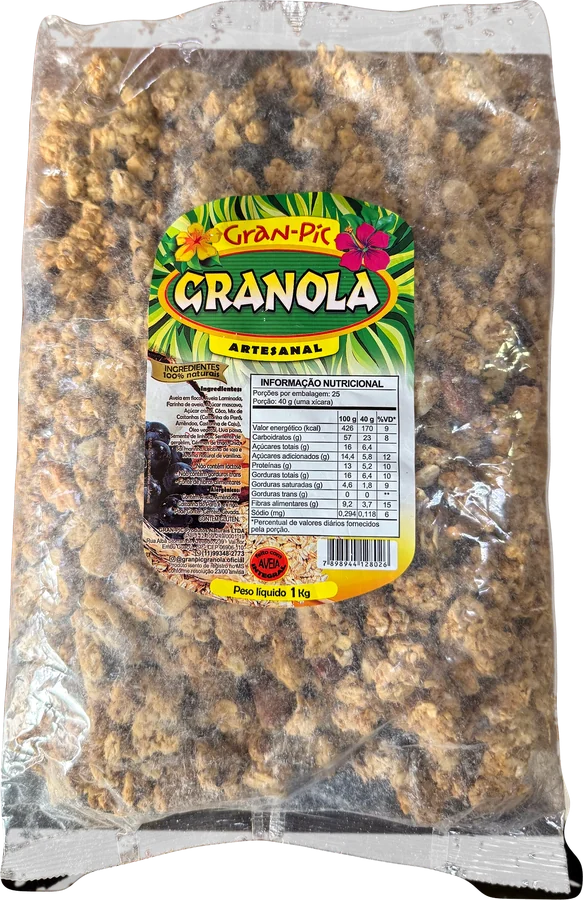
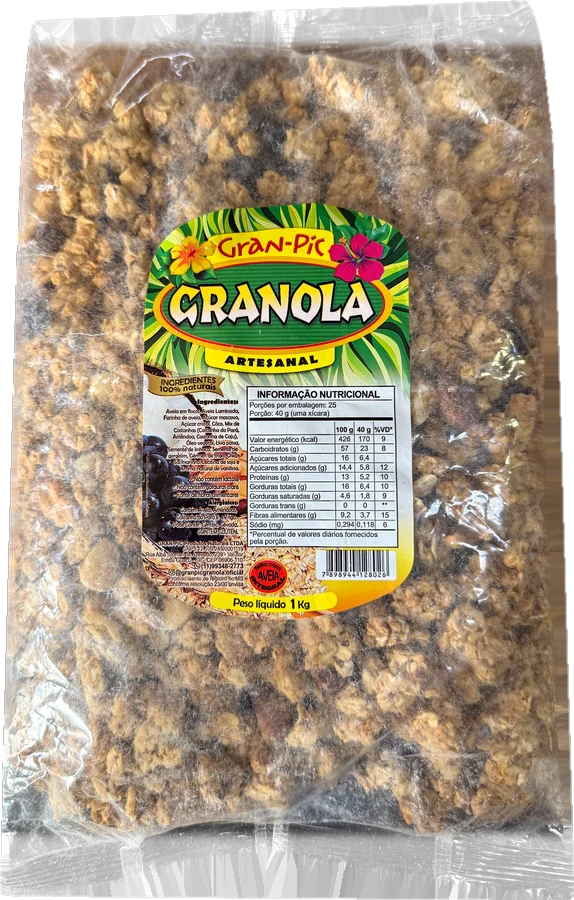
D'Lu: pacotes revisados um a um (contorno manual, sem madeira, cantos inteiros)
- Contorno desenhado sobre a foto original (polígono pelos vincos e
  soldas reais) em vez do contorno suavizado que comia cantos: sal
  Al-Andalus, tapioca Lopes 500 g, gengibre, realce de alho, caiena,
  creme de cebola, noz-moscada, cravo, cebola em pó, ácido cítrico,
  caldo de galinha Jomil e Penina, páprica picante, zathar e pimenta
  preta Tempera Bem; pimenta branca sem o calombo embaixo
- Granola Gran-Pic 500 g e 1 kg voltam para o recorte anterior (mais
  limpo nas soldas)
- ?v bump em todas

Claude-Session: https://claude.ai/code/session_01TP2isRzFhC1k2kUqYfETaa

diff --git a/dados/catalogo.js b/dados/catalogo.js
@@ -103,7 +103,7 @@ window.CATALOGO = {
       { nome: 'Vinagre de fruta', marca: 'Almaromi', cat: 'Diversos', cor: '#c9a24a', uso: 'Vinagre de fruta para saladas, marinadas e conservas: maçã comum, maçã orgânico, limão ou limão siciliano.', tamanhos: ['maçã 400 ml', 'maçã orgânico 400 ml', 'limão', 'limão siciliano'], rotulo: 'Tipo', fotos: { dlu: 'imagens/dlu/emb-vinagre-almaromi-maca.webp' }, fotosTam: { dlu: { 'maçã 400 ml': 'imagens/dlu/emb-vinagre-almaromi-maca.webp', 'maçã orgânico 400 ml': 'imagens/dlu/emb-vinagre-almaromi-maca-organico.webp', 'limão': 'imagens/dlu/emb-vinagre-almaromi-limao.webp', 'limão siciliano': 'imagens/dlu/emb-vinagre-almaromi-limao-siciliano.webp' } }, emb: true, so: 'dlu' },
       { nome: 'Pimenta biquinho', marca: 'Itaguaçu', ard: 0, cat: 'Pimentas em conserva', cor: '#e2682a', uso: 'Biquinho em conserva, doce e sem ardência. Vai bem em saladas, petiscos e carnes.', tamanhos: ['100 g'], liquido: ['200 g'], fotos: { dlu: 'imagens/dlu/emb-biquinho-itaguacu.webp' }, fotosTam: { dlu: { '100 g': 'imagens/dlu/emb-biquinho-itaguacu.webp' } }, emb: true, so: 'dlu' },
       { nome: 'Alho triturado', marca: 'Interessa', fotosTam: { dlu: { '200 g': 'imagens/dlu/emb-alho-triturado-interessa-200.webp' } }, cat: 'Alho', cor: '#e6dcc2', uso: 'Alho triturado pronto para refogar, sem precisar descascar.', tamanhos: ['200 g', '1 kg', '3 kg'], emb: true, so: 'dlu' },
-      { nome: 'Caldo de galinha', marca: 'Jomil', fotos: { dlu: 'imagens/dlu/emb-caldo-galinha-jomil.webp?v=2' }, fotosTam: { dlu: { 'pacote 1,01 kg': 'imagens/dlu/emb-caldo-galinha-jomil.webp?v=2' } }, cat: 'Misturas da casa', cor: '#e0b23a', uso: 'Caldo de galinha em pó, em pacote, para arroz, sopas, risotos e molhos.', tamanhos: ['pacote 1,01 kg'], emb: true, so: 'dlu' },
+      { nome: 'Caldo de galinha', marca: 'Jomil', fotos: { dlu: 'imagens/dlu/emb-caldo-galinha-jomil.webp?v=3' }, fotosTam: { dlu: { 'pacote 1,01 kg': 'imagens/dlu/emb-caldo-galinha-jomil.webp?v=3' } }, cat: 'Misturas da casa', cor: '#e0b23a', uso: 'Caldo de galinha em pó, em pacote, para arroz, sopas, risotos e molhos.', tamanhos: ['pacote 1,01 kg'], emb: true, so: 'dlu' },
       { nome: 'Colorau Paraíba em pacote', cat: 'Especiarias', cor: '#c23a1c', uso: 'O colorau Paraíba já embalado, em pacote de 1 kg ou de 5 kg.', tamanhos: ['pacote 1 kg', 'pacote 5 kg'], emb: true, so: 'dlu' },
       { nome: 'Tempero conquista sogra', fotosT: { dlu: 'imagens/dlu/conquista-sogra.webp' }, cat: 'Misturas da casa', cor: '#a4442a', uso: 'Mistura pronta da casa. Pergunte a composição no WhatsApp.', so: 'dlu' },
       { nome: 'Chimichurri com limão', fotosT: { dlu: 'imagens/dlu/chimichurri-limao.webp' }, cat: 'Misturas da casa', cor: '#7a8a30', uso: 'O chimichurri com toque de limão, para frango, peixe e churrasco.', so: 'dlu' },
@@ -142,21 +142,21 @@ window.CATALOGO = {
       { nome: 'Mel de flores silvestres', marca: 'São Miguel', grupo: 'Mel de flores', tipo: 'Silvestre', fotos: { dlu: 'imagens/dlu/emb-mel-silvestre-sao-miguel-500.webp' }, fotosTam: { dlu: { '210 g': 'imagens/dlu/emb-mel-silvestre-sao-miguel-210.webp', '500 g': 'imagens/dlu/emb-mel-silvestre-sao-miguel-500.webp', '1 kg': 'imagens/dlu/emb-mel-silvestre-sao-miguel-1kg.webp' } }, cat: 'Mel, dendê e manteiga', cor: '#c98a1c', uso: 'Mel puro de abelha do Apiário São Miguel. Mel de flores silvestres, de sabor marcante.', tamanhos: ['210 g', '500 g', '1 kg'], emb: true, so: 'dlu' },
       { nome: 'Mel de flores de eucalipto', marca: 'São Miguel', grupo: 'Mel de flores', tipo: 'Eucalipto', fotos: { dlu: 'imagens/dlu/emb-mel-eucalipto-sao-miguel-500.webp' }, fotosTam: { dlu: { '210 g': 'imagens/dlu/emb-mel-eucalipto-sao-miguel-210.webp', '500 g': 'imagens/dlu/emb-mel-eucalipto-sao-miguel-500.webp', '1 kg': 'imagens/dlu/emb-mel-eucalipto-sao-miguel-1kg.webp' } }, cat: 'Mel, dendê e manteiga', cor: '#a8641a', uso: 'Mel puro de abelha do Apiário São Miguel. Mel de flores de eucalipto, mais encorpado.', tamanhos: ['210 g', '500 g', '1 kg'], emb: true, so: 'dlu' },
       { nome: 'Mel de flores de laranjeira', marca: 'São Miguel', grupo: 'Mel de flores', tipo: 'Laranjeira', fotos: { dlu: 'imagens/dlu/emb-mel-laranjeira-sao-miguel-500.webp' }, fotosTam: { dlu: { '210 g': 'imagens/dlu/emb-mel-laranjeira-sao-miguel-210.webp', '500 g': 'imagens/dlu/emb-mel-laranjeira-sao-miguel-500.webp', '1 kg': 'imagens/dlu/emb-mel-laranjeira-sao-miguel-1kg.webp' } }, cat: 'Mel, dendê e manteiga', cor: '#d9a02a', uso: 'Mel puro de abelha do Apiário São Miguel. Mel de flores de laranjeira, suave e perfumado.', tamanhos: ['210 g', '500 g', '1 kg'], emb: true, so: 'dlu' },
-      { nome: 'Cebola em pó', marca: 'Tempera Bem', fotos: { dlu: 'imagens/dlu/emb-cebola-po-tempera-bem-500.webp?v=2' }, fotosTam: { dlu: { 'pacote 500 g': 'imagens/dlu/emb-cebola-po-tempera-bem-500.webp?v=2' } }, cat: 'Desidratados', cor: '#dcc89c', uso: 'Cebola moída para molhos, sopas, carnes e massas.', tamanhos: ['pacote 500 g'], emb: true, so: 'dlu' },
-      { nome: 'Realce sabor alho', marca: 'Tempera Bem', fotos: { dlu: 'imagens/dlu/emb-realce-alho-tempera-bem-500.webp?v=2' }, fotosTam: { dlu: { 'pacote 500 g': 'imagens/dlu/emb-realce-alho-tempera-bem-500.webp?v=2' } }, cat: 'Alho', cor: '#e2d4b0', uso: 'Realçador com sabor de alho em pacote, para arroz, feijão, carnes e legumes.', tamanhos: ['pacote 500 g'], emb: true, so: 'dlu' },
+      { nome: 'Cebola em pó', marca: 'Tempera Bem', fotos: { dlu: 'imagens/dlu/emb-cebola-po-tempera-bem-500.webp?v=3' }, fotosTam: { dlu: { 'pacote 500 g': 'imagens/dlu/emb-cebola-po-tempera-bem-500.webp?v=3' } }, cat: 'Desidratados', cor: '#dcc89c', uso: 'Cebola moída para molhos, sopas, carnes e massas.', tamanhos: ['pacote 500 g'], emb: true, so: 'dlu' },
+      { nome: 'Realce sabor alho', marca: 'Tempera Bem', fotos: { dlu: 'imagens/dlu/emb-realce-alho-tempera-bem-500.webp?v=3' }, fotosTam: { dlu: { 'pacote 500 g': 'imagens/dlu/emb-realce-alho-tempera-bem-500.webp?v=3' } }, cat: 'Alho', cor: '#e2d4b0', uso: 'Realçador com sabor de alho em pacote, para arroz, feijão, carnes e legumes.', tamanhos: ['pacote 500 g'], emb: true, so: 'dlu' },
       { nome: 'Lemon pepper', marca: 'Tempera Bem', fotos: { dlu: 'imagens/dlu/emb-lemon-pepper-tempera-bem-500.webp?v=3' }, fotosTam: { dlu: { 'pacote 500 g': 'imagens/dlu/emb-lemon-pepper-tempera-bem-500.webp?v=3' } }, cat: 'Pimentas e pápricas', cor: '#c9b83a', uso: 'Lemon pepper em pacote, pimenta com limão para peixe, frango e saladas.', tamanhos: ['pacote 500 g'], emb: true, so: 'dlu' },
-      { nome: 'Ácido cítrico', marca: 'Tempera Bem', fotos: { dlu: 'imagens/dlu/emb-acido-citrico-tempera-bem-500.webp?v=2' }, fotosTam: { dlu: { 'pacote 500 g': 'imagens/dlu/emb-acido-citrico-tempera-bem-500.webp?v=2' } }, cat: 'Diversos', cor: '#eeece6', uso: 'Ácido cítrico anidro em pó, para conservas, geleias, doces e para acertar a acidez de receitas.', tamanhos: ['pacote 500 g'], emb: true, so: 'dlu' },
+      { nome: 'Ácido cítrico', marca: 'Tempera Bem', fotos: { dlu: 'imagens/dlu/emb-acido-citrico-tempera-bem-500.webp?v=3' }, fotosTam: { dlu: { 'pacote 500 g': 'imagens/dlu/emb-acido-citrico-tempera-bem-500.webp?v=3' } }, cat: 'Diversos', cor: '#eeece6', uso: 'Ácido cítrico anidro em pó, para conservas, geleias, doces e para acertar a acidez de receitas.', tamanhos: ['pacote 500 g'], emb: true, so: 'dlu' },
       { nome: 'Alho moído', marca: 'Tempera Bem', fotos: { dlu: 'imagens/dlu/emb-alho-moido-tempera-bem-500.webp' }, fotosTam: { dlu: { 'pacote 500 g': 'imagens/dlu/emb-alho-moido-tempera-bem-500.webp' } }, cat: 'Alho', cor: '#e8dcc0', uso: 'Alho em pó para carnes, molhos, pães e temperos secos.', tamanhos: ['pacote 500 g'], emb: true, so: 'dlu' },
       { nome: 'Colorífico extra forte', marca: 'Tempera Bem', fotos: { dlu: 'imagens/dlu/emb-colorifico-extra-forte-tempera-bem.webp' }, fotosTam: { dlu: { 'pacote 1,01 kg': 'imagens/dlu/emb-colorifico-extra-forte-tempera-bem.webp' } }, cat: 'Especiarias', cor: '#c4381c', uso: 'Colorífico extra forte em pacote, para dar cor a arroz, carnes, feijão e molhos.', tamanhos: ['pacote 1,01 kg'], emb: true, so: 'dlu' },
       { nome: 'Pimenta síria condimentada', marca: 'Tempera Bem', fotos: { dlu: 'imagens/dlu/emb-pimenta-siria-tempera-bem-500.webp' }, fotosTam: { dlu: { 'pacote 500 g': 'imagens/dlu/emb-pimenta-siria-tempera-bem-500.webp' } }, cat: 'Pimentas e pápricas', cor: '#6a4a30', uso: 'Pimenta síria condimentada em pacote, para quibe, esfiha, kafta e carnes.', tamanhos: ['pacote 500 g'], emb: true, so: 'dlu' },
-      { nome: 'Zathar', marca: 'Tempera Bem', fotos: { dlu: 'imagens/dlu/emb-zathar-tempera-bem-500.webp' }, fotosTam: { dlu: { 'pacote 500 g': 'imagens/dlu/emb-zathar-tempera-bem-500.webp' } }, cat: 'Especiarias', cor: '#7a8a4a', uso: 'Zathar em pacote, mistura árabe para pão sírio, coalhada, saladas e carnes.', tamanhos: ['pacote 500 g'], emb: true, so: 'dlu' },
-      { nome: 'Pimenta preta moída', marca: 'Tempera Bem', fotos: { dlu: 'imagens/dlu/emb-pimenta-preta-tempera-bem-500.webp' }, fotosTam: { dlu: { 'pacote 500 g': 'imagens/dlu/emb-pimenta-preta-tempera-bem-500.webp' } }, cat: 'Pimentas e pápricas', cor: '#2a2420', uso: 'Pimenta-do-reino preta moída em pacote, para carnes, molhos e o dia a dia.', tamanhos: ['pacote 500 g'], emb: true, so: 'dlu' },
+      { nome: 'Zathar', marca: 'Tempera Bem', fotos: { dlu: 'imagens/dlu/emb-zathar-tempera-bem-500.webp?v=2' }, fotosTam: { dlu: { 'pacote 500 g': 'imagens/dlu/emb-zathar-tempera-bem-500.webp?v=2' } }, cat: 'Especiarias', cor: '#7a8a4a', uso: 'Zathar em pacote, mistura árabe para pão sírio, coalhada, saladas e carnes.', tamanhos: ['pacote 500 g'], emb: true, so: 'dlu' },
+      { nome: 'Pimenta preta moída', marca: 'Tempera Bem', fotos: { dlu: 'imagens/dlu/emb-pimenta-preta-tempera-bem-500.webp?v=2' }, fotosTam: { dlu: { 'pacote 500 g': 'imagens/dlu/emb-pimenta-preta-tempera-bem-500.webp?v=2' } }, cat: 'Pimentas e pápricas', cor: '#2a2420', uso: 'Pimenta-do-reino preta moída em pacote, para carnes, molhos e o dia a dia.', tamanhos: ['pacote 500 g'], emb: true, so: 'dlu' },
       { nome: 'Realce sabor alho', fotosT: { dlu: 'imagens/dlu/realce-sabor-alho.webp' }, cat: 'Alho', cor: '#e2d4b0', uso: 'Realçador com sabor de alho para arroz, feijão, carnes e legumes.', so: 'dlu' },
       { nome: 'Realce de alho', fotosT: { dlu: 'imagens/dlu/realce-de-alho.webp' }, cat: 'Alho', cor: '#d8c8a0', uso: 'Realce de alho para refogados, carnes e o tempero do dia a dia.', so: 'dlu' },
       { nome: 'Realce para carne, legumes e aves', fotosT: { dlu: 'imagens/dlu/realce-carne-legumes-aves.webp?v=2' }, cat: 'Misturas da casa', cor: '#d8b21f', uso: 'Realçador de sabor para carnes, legumes e aves.', so: 'dlu' },
       { nome: 'Creme de cebola', fotosT: { dlu: 'imagens/dlu/creme-de-cebola.webp' }, cat: 'Misturas da casa', cor: '#d6bc8a', uso: 'Creme de cebola em pó para sopas, patês, molhos e chips.', so: 'dlu' },
       { nome: 'Granola crocante', grupo: 'Granola', tipo: 'Crocante', cat: 'Grãos e sementes', cor: '#b8864a', uso: 'Granola crocante para iogurte, frutas, açaí e o café da manhã.', tamanhos: ['500 g', '1 kg'], emb: true, so: 'dlu' },
-      { nome: 'Granola artesanal', marca: 'Gran-Pic', grupo: 'Granola', tipo: 'Artesanal Gran-Pic', fotos: { dlu: 'imagens/dlu/emb-granola-granpic-500.webp?v=2' }, fotosTam: { dlu: { '500 g': 'imagens/dlu/emb-granola-granpic-500.webp?v=2', '1 kg': 'imagens/dlu/emb-granola-granpic-1kg.webp?v=2' } }, cat: 'Grãos e sementes', cor: '#a8783a', uso: 'Granola artesanal Gran-Pic em pacote, com aveia, castanhas e uva-passa. Para iogurte, frutas, açaí e o café da manhã.', tamanhos: ['500 g', '1 kg'], emb: true, so: 'dlu' },
+      { nome: 'Granola artesanal', marca: 'Gran-Pic', grupo: 'Granola', tipo: 'Artesanal Gran-Pic', fotos: { dlu: 'imagens/dlu/emb-granola-granpic-500.webp?v=3' }, fotosTam: { dlu: { '500 g': 'imagens/dlu/emb-granola-granpic-500.webp?v=3', '1 kg': 'imagens/dlu/emb-granola-granpic-1kg.webp?v=3' } }, cat: 'Grãos e sementes', cor: '#a8783a', uso: 'Granola artesanal Gran-Pic em pacote, com aveia, castanhas e uva-passa. Para iogurte, frutas, açaí e o café da manhã.', tamanhos: ['500 g', '1 kg'], emb: true, so: 'dlu' },
       { nome: 'Granola artesanal', grupo: 'Granola', tipo: 'Artesanal', fotosT: { dlu: 'imagens/dlu/granola-artesanal.webp' }, cat: 'Grãos e sementes', cor: '#a8783a', uso: 'Granola artesanal a granel, para iogurte, frutas, açaí e o café da manhã.', so: 'dlu' },
       { nome: 'Aveia em flocos', grupo: 'Aveia em flocos', tipo: 'Flocos', fotosT: { dlu: 'imagens/dlu/aveia-em-flocos.webp' }, cat: 'Grãos e sementes', cor: '#d8c49a', uso: 'Aveia em flocos para mingau, vitaminas, bolos, pães e panquecas.', so: 'dlu' },
       { nome: 'Aveia em flocos laminada', grupo: 'Aveia em flocos', tipo: 'Laminada', fotosT: { dlu: 'imagens/dlu/aveia-em-flocos-laminada.webp' }, cat: 'Grãos e sementes', cor: '#cdb98c', uso: 'Aveia laminada, em flocos maiores e mais firmes. Para granola, overnight oats, mingau encorpado e receitas.', so: 'dlu' },
@@ -174,7 +174,7 @@ window.CATALOGO = {
       { nome: 'Pimentão verde desidratado', cat: 'Desidratados', cor: '#4f7a2a', uso: 'Pimentão verde seco para molhos, arroz, sopas e recheios.', so: 'dlu' },
       { nome: 'Extrato aquoso de própolis', marca: 'Apis Flora', grupo: 'Extrato de própolis', tipo: 'Aquoso (Propomax)', fotos: { dlu: 'imagens/dlu/emb-propolis-aquoso-propomax.webp' }, fotosTam: { dlu: { '30 ml': 'imagens/dlu/emb-propolis-aquoso-propomax.webp' } }, cat: 'Mel, dendê e manteiga', cor: '#8a7a3a', uso: 'Propomax: extrato aquoso de própolis verde, sem álcool, em frasco.', tamanhos: ['30 ml'], emb: true, so: 'dlu' },
       { nome: 'Moringa em pó', fotosT: { dlu: 'imagens/dlu/moringa.webp?v=2' }, cat: 'Diversos', cor: '#5a7a2a', uso: 'Folha de moringa em pó para sucos, vitaminas e receitas.', so: 'dlu' },
-      { nome: 'Tapioca', marca: 'Lopes', fotos: { dlu: 'imagens/dlu/emb-tapioca-lopes-500.webp?v=2' }, fotosTam: { dlu: { '500 g': 'imagens/dlu/emb-tapioca-lopes-500.webp?v=2', '1 kg': 'imagens/dlu/emb-tapioca-lopes-1kg.webp?v=2' } }, cat: 'Diversos', cor: '#ece6da', uso: 'Goma de tapioca pronta para fazer tapioca na frigideira.', tamanhos: ['500 g', '1 kg'], emb: true, so: 'dlu' },
+      { nome: 'Tapioca', marca: 'Lopes', fotos: { dlu: 'imagens/dlu/emb-tapioca-lopes-500.webp?v=3' }, fotosTam: { dlu: { '500 g': 'imagens/dlu/emb-tapioca-lopes-500.webp?v=3', '1 kg': 'imagens/dlu/emb-tapioca-lopes-1kg.webp?v=2' } }, cat: 'Diversos', cor: '#ece6da', uso: 'Goma de tapioca pronta para fazer tapioca na frigideira.', tamanhos: ['500 g', '1 kg'], emb: true, so: 'dlu' },
       { nome: 'Tempero do Chefe', marca: 'Tempera Bem', fotosT: { dlu: 'imagens/dlu/tempero-do-chefe-tempera-bem.webp?v=2' }, cat: 'Misturas da casa', cor: '#7d4a2a', uso: 'O Tempero do Chefe da marca Tempera Bem, a granel.', so: 'dlu' },
       { nome: 'Ervas finas', fotosT: { dlu: 'imagens/dlu/ervas-finas.webp?v=2' }, cat: 'Ervas', cor: '#5a7a3a', uso: 'Mistura de ervas para omeletes, molhos, peixes, frango e manteigas temperadas.', so: 'dlu' },
       { nome: 'Mostarda em grão', fotosT: { dlu: 'imagens/dlu/mostarda-em-grao.webp' }, cat: 'Especiarias', cor: '#c9a23a', uso: 'Semente de mostarda para conservas, picles, molhos e carnes.', so: 'dlu' },
@@ -193,7 +193,7 @@ window.CATALOGO = {
       { nome: 'Louro em folha', marca: 'Jomil', cat: 'Ervas', cor: '#4f6b3a', uso: 'Folhas de louro em pacote, para feijão, ensopados e caldos.', tamanhos: ['pacote 100 g'], emb: true, so: 'dlu' },
       { nome: 'Azeite', marca: 'Bom Dia', fotos: { dlu: 'imagens/dlu/emb-azeite-bom-dia.webp' }, cat: 'Diversos', cor: '#8a9a2a', uso: 'Azeite para saladas, refogados e finalizar pratos.', tamanhos: ['500 ml'], emb: true, so: 'dlu' },
       { nome: 'Molho de pimenta biquinho cremoso', marca: 'Nativa', ard: 1, fotos: { dlu: 'imagens/dlu/emb-molho-biquinho-cremoso-nativa.webp' }, cat: 'Molhos', cor: '#e2682a', uso: 'Molho cremoso de pimenta biquinho, adocicado e quase sem ardência.', emb: true, so: 'dlu' },
-      { nome: 'Caldo de galinha', marca: 'Penina', fotos: { dlu: 'imagens/dlu/emb-caldo-galinha-penina.webp?v=2' }, fotosTam: { dlu: { 'pacote 1,05 kg': 'imagens/dlu/emb-caldo-galinha-penina.webp?v=2' } }, cat: 'Misturas da casa', cor: '#e0b23a', uso: 'Caldo de galinha em pó, em pacote, para arroz, sopas, risotos e molhos.', tamanhos: ['pacote 1,05 kg'], emb: true, so: 'dlu' },
+      { nome: 'Caldo de galinha', marca: 'Penina', fotos: { dlu: 'imagens/dlu/emb-caldo-galinha-penina.webp?v=3' }, fotosTam: { dlu: { 'pacote 1,05 kg': 'imagens/dlu/emb-caldo-galinha-penina.webp?v=3' } }, cat: 'Misturas da casa', cor: '#e0b23a', uso: 'Caldo de galinha em pó, em pacote, para arroz, sopas, risotos e molhos.', tamanhos: ['pacote 1,05 kg'], emb: true, so: 'dlu' },
       { nome: 'Flocão de milho', marca: 'Coringa', cat: 'Grãos e sementes', cor: '#e8c24a', uso: 'Flocão de milho para cuscuz nordestino.', emb: true, so: 'dlu' },
       { nome: 'Pimenta-da-jamaica em grão', fotosT: { dlu: 'imagens/dlu/pimenta-jamaica-grao-2.webp' }, grupo: 'Pimenta-da-jamaica', tipo: 'Em grão', cat: 'Especiarias', cor: '#5a3a2a', uso: 'Grão aromático (lembra cravo, canela e noz-moscada) para carnes, conservas, caldos e doces.', so: 'dlu' },
       { nome: 'Pimenta-da-jamaica moída', grupo: 'Pimenta-da-jamaica', tipo: 'Moída', fotosT: { dlu: 'imagens/dlu/pimenta-jamaica-moida.webp' }, cat: 'Especiarias', cor: '#6a4030', uso: 'Pimenta-da-jamaica moída para carnes, molhos, caldos e doces.', so: 'dlu' },
@@ -210,7 +210,7 @@ window.CATALOGO = {
       { nome: 'Molho jalapeño', marca: 'Nativa', ard: 2, fotos: { dlu: 'imagens/dlu/emb-molho-jalapeno-nativa.webp' }, cat: 'Molhos', cor: '#b8321e', uso: 'Molho de pimenta jalapeño, de ardência moderada, para lanches, tacos, carnes e petiscos.', tamanhos: ['150 ml'], emb: true, so: 'dlu' },
       { nome: 'Molho Scorpion cremoso', marca: 'Aroma D’Minas', ard: 5, fotos: { dlu: 'imagens/dlu/emb-molho-scorpion-cremoso-aroma.webp' }, cat: 'Molhos', cor: '#c42a1a', uso: 'Molho cremoso com a pimenta scorpion, de ardência extrema. Use pouco.', tamanhos: ['150 ml'], emb: true, so: 'dlu' },
       { nome: 'Gergelim branco', foto: 'imagens/dlu/gergelim-branco.webp', cat: 'Grãos e sementes', cor: '#efe4c8', uso: 'Gergelim para pães, saladas, pratos orientais, tahine e finalizações.', so: 'dlu' },
-      { nome: 'Gengibre moído', marca: 'Tempera Bem', fotos: { dlu: 'imagens/dlu/emb-gengibre-tempera-bem-500.webp?v=2' }, fotosTam: { dlu: { 'pacote 500 g': 'imagens/dlu/emb-gengibre-tempera-bem-500.webp?v=2' } }, cat: 'Especiarias', cor: '#c9a050', uso: 'Gengibre em pó para chás, biscoitos, carnes, molhos e pratos orientais.', tamanhos: ['pacote 500 g'], emb: true, so: 'dlu' },
+      { nome: 'Gengibre moído', marca: 'Tempera Bem', fotos: { dlu: 'imagens/dlu/emb-gengibre-tempera-bem-500.webp?v=3' }, fotosTam: { dlu: { 'pacote 500 g': 'imagens/dlu/emb-gengibre-tempera-bem-500.webp?v=3' } }, cat: 'Especiarias', cor: '#c9a050', uso: 'Gengibre em pó para chás, biscoitos, carnes, molhos e pratos orientais.', tamanhos: ['pacote 500 g'], emb: true, so: 'dlu' },
       { nome: 'Pimenta do reino moída pura premium', marca: 'Tempera Bem', cat: 'Pimentas e pápricas', cor: '#2a2420', uso: 'Pimenta do reino moída pura, de aroma e ardência fortes, em pacote.', tamanhos: ['pacote 1 kg'], emb: true, so: 'dlu' },
       { nome: 'Melado de cana', marca: 'Roque & Braga', fotos: { dlu: 'imagens/dlu/emb-melado-roque-braga-pequeno.webp' }, fotosTam: { dlu: { '720 g': 'imagens/dlu/emb-melado-roque-braga-720.webp', '1,3 kg': 'imagens/dlu/emb-melado-roque-braga-1300.webp' } }, cat: 'Mel, dendê e manteiga', cor: '#4a2410', uso: 'Melado de cana puro (só cana-de-açúcar), para panqueca, queijo, pão, bolos e receitas.', tamanhos: ['300 g', '500 g', '720 g', '1,3 kg'], emb: true, so: 'dlu' },
       { nome: 'Pimenta cumari no óleo', grupo: 'Pimenta no óleo', tipo: 'Cumari', ard: 4, cat: 'Pimentas em conserva', cor: '#c4381a', uso: 'Cumari conservada no óleo: ardida, para regar arroz, feijão, carnes e pizzas.', emb: true, so: 'dlu' },
@@ -218,7 +218,7 @@ window.CATALOGO = {
       { nome: 'Pimenta mista no óleo', grupo: 'Pimenta no óleo', tipo: 'Mista', marca: 'Bella Minas', ard: 3, fotos: { dlu: 'imagens/dlu/emb-mista-oleo-bella-minas-90.webp' }, fotosTam: { dlu: { '90 g': 'imagens/dlu/emb-mista-oleo-bella-minas-90.webp' } }, cat: 'Pimentas em conserva', cor: '#b5371f', uso: 'Pimentas variadas conservadas em óleo composto, para regar arroz, feijão, carnes e pizzas.', tamanhos: ['90 g'], liquido: ['220 g'], emb: true, so: 'dlu' },
       { nome: 'Açúcar mascavo', cat: 'Diversos', cor: '#8a5a2a', uso: 'Açúcar mascavo para bolos, doces, café, vitaminas e caldas.', tamanhos: ['1 kg'], emb: true, so: 'dlu' },
       { nome: 'Curry', marca: 'Jomil', cat: 'Especiarias', cor: '#d6a024', uso: 'Curry em pó para frango, arroz, legumes e molhos.', tamanhos: ['pacote 500 g'], emb: true, so: 'dlu' },
-      { nome: 'Sal marinho integral', marca: 'Al-Andalus', fotos: { dlu: 'imagens/dlu/emb-sal-marinho-al-andalus-1kg.webp?v=2' }, fotosTam: { dlu: { '1 kg': 'imagens/dlu/emb-sal-marinho-al-andalus-1kg.webp?v=2' } }, cat: 'Diversos', cor: '#e4e2dc', uso: 'Sal marinho integral de Mossoró, menos refinado, para temperar no dia a dia.', tamanhos: ['1 kg'], emb: true, so: 'dlu' },
+      { nome: 'Sal marinho integral', marca: 'Al-Andalus', fotos: { dlu: 'imagens/dlu/emb-sal-marinho-al-andalus-1kg.webp?v=3' }, fotosTam: { dlu: { '1 kg': 'imagens/dlu/emb-sal-marinho-al-andalus-1kg.webp?v=3' } }, cat: 'Diversos', cor: '#e4e2dc', uso: 'Sal marinho integral de Mossoró, menos refinado, para temperar no dia a dia.', tamanhos: ['1 kg'], emb: true, so: 'dlu' },
       { nome: 'Molho Carolina Reaper', marca: 'Aroma D’Minas', ard: 5, cat: 'Molhos', cor: '#7a1010', uso: 'Feito com uma das pimentas mais ardidas do mundo. Para os fortes.', emb: true, so: 'dlu' },
       { nome: 'Ameixa sem caroço', foto: 'imagens/dlu/ameixa-sem-caroco.webp', cat: 'Desidratados', cor: '#3a1e2a', uso: 'Ameixa seca sem caroço para doces, recheios, molhos de carne e lanches.', so: 'dlu' },
       { nome: 'Pimenta biquinho', marca: 'Bella Minas', ard: 0, cat: 'Pimentas em conserva', cor: '#e2682a', uso: 'Biquinho em conserva, doce e sem ardência.', tamanhos: ['90 g'], emb: true, so: 'dlu' },
@@ -237,7 +237,7 @@ window.CATALOGO = {
       { nome: 'Caldo de carne', fotosT: { dlu: 'imagens/dlu/caldo-de-carne.webp' }, cat: 'Misturas da casa', cor: '#8a4a2a', uso: 'Caldo de carne em pó a granel, para feijão, sopas, molhos e arroz.', so: 'dlu' },
       { nome: 'Óleo de orégano extravirgem', marca: 'Tani', grupo: 'Óleos extra virgem Tani', tipo: 'Orégano', fotos: { dlu: 'imagens/dlu/emb-oleo-oregano-tani.webp' }, fotosTam: { dlu: { '250 ml': 'imagens/dlu/emb-oleo-oregano-tani.webp' } }, cat: 'Diversos', cor: '#6e7f3a', uso: 'Óleo de orégano extravirgem em frasco.', tamanhos: ['250 ml'], emb: true, so: 'dlu' },
       { nome: 'Caldo de costela', marca: 'Tempera Bem', fotos: { dlu: 'imagens/dlu/emb-caldo-costela-tempera-bem-500.webp' }, fotosTam: { dlu: { 'pacote 500 g': 'imagens/dlu/emb-caldo-costela-tempera-bem-500.webp' } }, cat: 'Misturas da casa', cor: '#8a4426', uso: 'Caldo em pó sabor costela, em pacote, para feijão, sopas, arroz e caldos.', tamanhos: ['pacote 500 g'], emb: true, so: 'dlu' },
-      { nome: 'Pimenta-caiena moída condimentada', marca: 'Tempera Bem', fotos: { dlu: 'imagens/dlu/emb-caiena-tempera-bem-500.webp?v=2' }, fotosTam: { dlu: { 'pacote 500 g': 'imagens/dlu/emb-caiena-tempera-bem-500.webp?v=2' } }, ard: 3, cat: 'Pimentas e pápricas', cor: '#b02a18', uso: 'Pimenta-caiena moída e temperada, ardida, para molhos, carnes e petiscos.', tamanhos: ['pacote 500 g'], emb: true, so: 'dlu' },
+      { nome: 'Pimenta-caiena moída condimentada', marca: 'Tempera Bem', fotos: { dlu: 'imagens/dlu/emb-caiena-tempera-bem-500.webp?v=3' }, fotosTam: { dlu: { 'pacote 500 g': 'imagens/dlu/emb-caiena-tempera-bem-500.webp?v=3' } }, ard: 3, cat: 'Pimentas e pápricas', cor: '#b02a18', uso: 'Pimenta-caiena moída e temperada, ardida, para molhos, carnes e petiscos.', tamanhos: ['pacote 500 g'], emb: true, so: 'dlu' },
       { nome: 'Farofa gourmet', marca: 'Kamar', fotos: { dlu: 'imagens/dlu/emb-farofa-kamar-tradicional.webp' }, fotosTam: { dlu: { 'tradicional 280 g': 'imagens/dlu/emb-farofa-kamar-tradicional.webp', 'alho 280 g': 'imagens/dlu/emb-farofa-kamar-alho.webp', 'pimenta 280 g': 'imagens/dlu/emb-farofa-kamar-pimenta.webp', 'bacon 280 g': 'imagens/dlu/emb-farofa-kamar-bacon.webp' } }, cat: 'Diversos', cor: '#d8a85a', uso: 'Farofa pronta para acompanhar churrasco, feijão e carnes.', tamanhos: ['tradicional 280 g', 'alho 280 g', 'pimenta 280 g', 'bacon 280 g'], rotulo: 'Sabor', emb: true, so: 'dlu' },
       { nome: 'Orégano em flocos', marca: 'Jomil', cat: 'Ervas', cor: '#6e7f3a', uso: 'Orégano em flocos para pizza, molho de tomate e pão de alho.', tamanhos: ['pacote 200 g'], emb: true, so: 'dlu' },
       { nome: 'Milho de pipoca', fotosT: { dlu: 'imagens/dlu/milho-de-pipoca.webp' }, cat: 'Grãos e sementes', cor: '#e8b83a', uso: 'Milho para pipoca a granel, estoura bem na panela ou na pipoqueira.', so: 'dlu' },
@@ -252,7 +252,7 @@ window.CATALOGO = {
       { nome: 'Caldo de carne', marca: 'Penina', fotos: { dlu: 'imagens/dlu/emb-caldo-carne-penina.webp?v=3' }, fotosTam: { dlu: { 'pacote 1,05 kg': 'imagens/dlu/emb-caldo-carne-penina.webp?v=3' } }, cat: 'Misturas da casa', cor: '#8a4a2a', uso: 'Caldo de carne em pó, em pacote, para feijão, sopas, molhos e arroz.', tamanhos: ['pacote 1,05 kg'], emb: true, so: 'dlu' },
       { nome: 'Molho Scorpion', marca: 'Bella Minas', ard: 5, fotos: { dlu: 'imagens/dlu/emb-scorpion-bella-minas-220.webp' }, fotosTam: { dlu: { '220 g': 'imagens/dlu/emb-scorpion-bella-minas-220.webp' } }, cat: 'Molhos', cor: '#8a1410', uso: 'Polpa de pimenta Trinidad Scorpion, extremamente ardida. Use pouco.', tamanhos: ['220 g'], emb: true, so: 'dlu' },
       { nome: 'Molho Carolina Reaper', marca: 'Bella Minas', ard: 5, fotos: { dlu: 'imagens/dlu/emb-carolina-reaper-bella-minas-220.webp' }, fotosTam: { dlu: { '220 g': 'imagens/dlu/emb-carolina-reaper-bella-minas-220.webp' } }, cat: 'Molhos', cor: '#7a1010', uso: 'Polpa de pimenta Carolina Reaper, uma das pimentas mais ardidas do mundo. Para os fortes.', tamanhos: ['220 g'], emb: true, so: 'dlu' },
-      { nome: 'Cravo moído', marca: 'Tempera Bem', fotos: { dlu: 'imagens/dlu/emb-cravo-tempera-bem-500.webp?v=2' }, fotosTam: { dlu: { 'pacote 500 g': 'imagens/dlu/emb-cravo-tempera-bem-500.webp?v=2' } }, cat: 'Especiarias', cor: '#5a2e1e', uso: 'Cravo-da-índia moído para bolos, doces, molhos e carnes.', tamanhos: ['pacote 500 g'], emb: true, so: 'dlu' },
+      { nome: 'Cravo moído', marca: 'Tempera Bem', fotos: { dlu: 'imagens/dlu/emb-cravo-tempera-bem-500.webp?v=3' }, fotosTam: { dlu: { 'pacote 500 g': 'imagens/dlu/emb-cravo-tempera-bem-500.webp?v=3' } }, cat: 'Especiarias', cor: '#5a2e1e', uso: 'Cravo-da-índia moído para bolos, doces, molhos e carnes.', tamanhos: ['pacote 500 g'], emb: true, so: 'dlu' },
       { nome: 'Ácido cítrico', marca: 'Tempera Bem', cat: 'Diversos', cor: '#e8e4d8', uso: 'Ácido cítrico em pó para conservas, geleias, doces e limpeza.', tamanhos: ['pacote 500 g'], emb: true, so: 'dlu' },
       { nome: 'Catuaba em pó', fotosT: { dlu: 'imagens/dlu/catuaba-2.webp?v=2' }, cat: 'Diversos', cor: '#7a5a3a', uso: 'Catuaba em pó, a granel.', so: 'dlu' },
       { nome: 'Fibra de maçã', fotosT: { dlu: 'imagens/dlu/fibra-de-maca-2.webp' }, cat: 'Diversos', cor: '#a07a4a', uso: 'Fibra de maçã para vitaminas, sucos, iogurte e receitas.', so: 'dlu' },
@@ -271,10 +271,10 @@ window.CATALOGO = {
       { nome: 'Pimenta malagueta moída', ard: 4, fotosT: { dlu: 'imagens/dlu/pimenta-malagueta-moida.webp?v=2' }, cat: 'Pimentas e pápricas', cor: '#b02a18', uso: 'Malagueta seca e moída, a granel, para molhos, carnes e conservas.', so: 'dlu' },
       { nome: 'Goma ice eucalipto', foto: 'imagens/dlu/goma-ice-eucalipto.webp', cat: 'Diversos', cor: '#4a9a8a', uso: 'Balas de goma sabor eucalipto, refrescantes, a granel.', so: 'dlu' },
       { nome: 'Tempero sabor limão em pó', marca: 'Tempera Bem', fotos: { dlu: 'imagens/dlu/emb-tempero-limao-tempera-bem-500.webp' }, fotosTam: { dlu: { 'pacote 500 g': 'imagens/dlu/emb-tempero-limao-tempera-bem-500.webp' } }, cat: 'Misturas da casa', cor: '#cfc24a', uso: 'Sabor de limão em pó para peixe, frango, saladas e legumes.', tamanhos: ['pacote 500 g'], emb: true, so: 'dlu' },
-      { nome: 'Pimenta branca moída', marca: 'Tempera Bem', fotos: { dlu: 'imagens/dlu/emb-pimenta-branca-tempera-bem-500.webp' }, fotosTam: { dlu: { 'pacote 500 g': 'imagens/dlu/emb-pimenta-branca-tempera-bem-500.webp' } }, cat: 'Pimentas e pápricas', cor: '#d8cfb8', uso: 'Pimenta branca moída para molho branco, purês, peixes e pratos claros.', tamanhos: ['pacote 500 g'], emb: true, so: 'dlu' },
+      { nome: 'Pimenta branca moída', marca: 'Tempera Bem', fotos: { dlu: 'imagens/dlu/emb-pimenta-branca-tempera-bem-500.webp?v=2' }, fotosTam: { dlu: { 'pacote 500 g': 'imagens/dlu/emb-pimenta-branca-tempera-bem-500.webp?v=2' } }, cat: 'Pimentas e pápricas', cor: '#d8cfb8', uso: 'Pimenta branca moída para molho branco, purês, peixes e pratos claros.', tamanhos: ['pacote 500 g'], emb: true, so: 'dlu' },
       { nome: 'Creme de pequi', marca: 'Aroma D’Minas', fotos: { dlu: 'imagens/dlu/emb-creme-pequi-aroma.webp' }, fotosTam: { dlu: { '200 ml': 'imagens/dlu/emb-creme-pequi-aroma.webp' } }, cat: 'Molhos', cor: '#d9b02a', uso: 'Creme de pequi premium para arroz, frango, galinhada e pão. Agite antes de usar.', tamanhos: ['200 ml'], emb: true, so: 'dlu' },
       { nome: 'Pimenta de bode', ard: 2, cat: 'Pimentas em conserva', cor: '#e3a21c', uso: 'Pimenta de bode em conserva, perfumada e de ardência média, no vidro de 430 g: amarela ou vermelha.', tamanhos: ['amarela 430 g', 'vermelha 430 g'], rotulo: 'Cor', emb: true, so: 'dlu' },
-      { nome: 'Noz-moscada moída', marca: 'Tempera Bem', fotos: { dlu: 'imagens/dlu/emb-noz-moscada-tempera-bem-500.webp?v=2' }, fotosTam: { dlu: { 'pacote 500 g': 'imagens/dlu/emb-noz-moscada-tempera-bem-500.webp?v=2' } }, cat: 'Especiarias', cor: '#7a5234', uso: 'Noz-moscada em pó para molho branco, purê, bolos e quentão.', tamanhos: ['pacote 500 g'], emb: true, so: 'dlu' },
+      { nome: 'Noz-moscada moída', marca: 'Tempera Bem', fotos: { dlu: 'imagens/dlu/emb-noz-moscada-tempera-bem-500.webp?v=3' }, fotosTam: { dlu: { 'pacote 500 g': 'imagens/dlu/emb-noz-moscada-tempera-bem-500.webp?v=3' } }, cat: 'Especiarias', cor: '#7a5234', uso: 'Noz-moscada em pó para molho branco, purê, bolos e quentão.', tamanhos: ['pacote 500 g'], emb: true, so: 'dlu' },
       { nome: 'Óleo de abacate', marca: 'Tani', grupo: 'Óleos extra virgem Tani', tipo: 'Abacate', fotos: { dlu: 'imagens/dlu/emb-oleo-abacate-tani.webp' }, fotosTam: { dlu: { '250 ml': 'imagens/dlu/emb-oleo-abacate-tani.webp' } }, cat: 'Diversos', cor: '#6a8a2a', uso: 'Óleo de abacate para saladas, grelhados e finalizar pratos.', tamanhos: ['250 ml'], emb: true, so: 'dlu' },
       { nome: 'Bicarbonato de sódio', marca: 'Muniz', cat: 'Diversos', cor: '#e9e6df', uso: 'Bicarbonato de sódio em pacote, para receitas, fermentação e limpeza.', tamanhos: ['pacote 500 g'], emb: true, so: 'dlu' },
       { nome: 'Amendoim japonês', fotosT: { dlu: 'imagens/dlu/amendoim-japones-2.webp' }, grupo: 'Amendoim crocante', tipo: 'Japonês', cat: 'Grãos e sementes', cor: '#c98a4a', uso: 'Amendoim crocante japonês, a granel, para petiscar.', so: 'dlu' },
@@ -292,7 +292,7 @@ window.CATALOGO = {
       { nome: 'Óleo de chia extravirgem', marca: 'Tani', grupo: 'Óleos extra virgem Tani', tipo: 'Chia', fotos: { dlu: 'imagens/dlu/emb-oleo-chia-tani.webp' }, fotosTam: { dlu: { '250 ml': 'imagens/dlu/emb-oleo-chia-tani.webp' } }, cat: 'Diversos', cor: '#c9b040', uso: 'Óleo de chia extra virgem em frasco.', tamanhos: ['250 ml'], emb: true, so: 'dlu' },
       { nome: 'Óleo de cacau black extravirgem', marca: 'Tani', grupo: 'Óleos extra virgem Tani', tipo: 'Cacau black', fotos: { dlu: 'imagens/dlu/emb-oleo-cacau-tani.webp' }, fotosTam: { dlu: { '250 ml': 'imagens/dlu/emb-oleo-cacau-tani.webp' } }, cat: 'Diversos', cor: '#8a8a3a', uso: 'Óleo de cacau black extra virgem em frasco.', tamanhos: ['250 ml'], emb: true, so: 'dlu' },
       { nome: 'Óleo de gengibre extravirgem', marca: 'Tani', grupo: 'Óleos extra virgem Tani', tipo: 'Gengibre', fotos: { dlu: 'imagens/dlu/emb-oleo-gengibre-tani.webp' }, fotosTam: { dlu: { '250 ml': 'imagens/dlu/emb-oleo-gengibre-tani.webp' } }, cat: 'Diversos', cor: '#c9a83a', uso: 'Óleo de gengibre extra virgem em frasco.', tamanhos: ['250 ml'], emb: true, so: 'dlu' },
-      { nome: 'Creme de cebola', marca: 'Tempera Bem', fotos: { dlu: 'imagens/dlu/emb-creme-cebola-tempera-bem-500.webp?v=2' }, fotosTam: { dlu: { 'pacote 500 g': 'imagens/dlu/emb-creme-cebola-tempera-bem-500.webp?v=2' } }, cat: 'Misturas da casa', cor: '#d6bc8a', uso: 'Creme de cebola em pó, em pacote, para sopas, patês, molhos e chips.', tamanhos: ['pacote 500 g'], emb: true, so: 'dlu' },
+      { nome: 'Creme de cebola', marca: 'Tempera Bem', fotos: { dlu: 'imagens/dlu/emb-creme-cebola-tempera-bem-500.webp?v=3' }, fotosTam: { dlu: { 'pacote 500 g': 'imagens/dlu/emb-creme-cebola-tempera-bem-500.webp?v=3' } }, cat: 'Misturas da casa', cor: '#d6bc8a', uso: 'Creme de cebola em pó, em pacote, para sopas, patês, molhos e chips.', tamanhos: ['pacote 500 g'], emb: true, so: 'dlu' },
       { nome: 'Creme de cebola', marca: 'Jomil', cat: 'Misturas da casa', cor: '#d0b480', uso: 'Creme de cebola em pó, em pacote, para sopas, patês, molhos e chips.', tamanhos: ['pacote 500 g'], emb: true, so: 'dlu' },
       { nome: 'Amendoim torrado com sal', foto: 'imagens/dlu/amendoim-torrado-com-sal.webp', grupo: 'Amendoim salgado', tipo: 'A granel', cat: 'Grãos e sementes', cor: '#c08a50', uso: 'Amendoim torrado e salgado, a granel, para petiscar.', so: 'dlu' },
       { nome: 'Amendoim frito com sal', foto: 'imagens/dlu/amendoim-frito-com-sal.webp', grupo: 'Amendoim salgado', tipo: 'Frito', cat: 'Grãos e sementes', cor: '#c88a4a', uso: 'Amendoim frito e salgado, a granel, para petiscar.', so: 'dlu' },
@@ -302,7 +302,7 @@ window.CATALOGO = {
       { nome: 'Amendoim sem pele torrado com sal', grupo: 'Amendoim sem pele', tipo: 'Com sal', foto: 'imagens/dlu/amendoim-sem-pele-com-sal.webp', cat: 'Grãos e sementes', cor: '#c89a5a', uso: 'Amendoim sem pele, torrado e salgado, a granel, para petiscar e receitas.', so: 'dlu' },
       { nome: 'Azedinho de cereja', foto: 'imagens/dlu/azedinho-cereja.webp', cat: 'Diversos', cor: '#c4203a', uso: 'Bala azedinha sabor cereja, a granel.', so: 'dlu' },
       { nome: 'Molho de pimenta', marca: 'Gota', ard: 3, cat: 'Molhos', cor: '#b0201a', uso: 'Molho de pimenta para petiscos, carnes, feijão e caldos.', tamanhos: ['150 ml'], emb: true, so: 'dlu' },
-      { nome: 'Páprica picante', marca: 'Tempera Bem', fotos: { dlu: 'imagens/dlu/emb-paprica-picante-tempera-bem-500.webp' }, fotosTam: { dlu: { 'pacote 500 g': 'imagens/dlu/emb-paprica-picante-tempera-bem-500.webp' } }, ard: 3, cat: 'Pimentas e pápricas', cor: '#a82a18', uso: 'Páprica com ardência, em pacote, para carnes, molhos, batatas e petiscos.', tamanhos: ['pacote 500 g'], emb: true, so: 'dlu' },
+      { nome: 'Páprica picante', marca: 'Tempera Bem', fotos: { dlu: 'imagens/dlu/emb-paprica-picante-tempera-bem-500.webp?v=2' }, fotosTam: { dlu: { 'pacote 500 g': 'imagens/dlu/emb-paprica-picante-tempera-bem-500.webp?v=2' } }, ard: 3, cat: 'Pimentas e pápricas', cor: '#a82a18', uso: 'Páprica com ardência, em pacote, para carnes, molhos, batatas e petiscos.', tamanhos: ['pacote 500 g'], emb: true, so: 'dlu' },
       { nome: 'Chipotle', ard: 3, fotosT: { dlu: 'imagens/dlu/chipotle.webp?v=2' }, cat: 'Pimentas e pápricas', cor: '#6a2a1a', uso: 'Pimenta jalapeño defumada e moída, para carnes, molhos, chili e comida mexicana.', so: 'dlu' },
       { nome: 'Tapioca premium', marca: 'Muniz', fotos: { dlu: 'imagens/dlu/emb-tapioca-muniz-500.webp?v=3' }, fotosTam: { dlu: { '500 g': 'imagens/dlu/emb-tapioca-muniz-500.webp?v=3' } }, cat: 'Diversos', cor: '#ece6da', uso: 'Goma de tapioca premium pronta para fazer tapioca na frigideira.', tamanhos: ['500 g'], emb: true, so: 'dlu' },
       { nome: 'Pimenta malagueta', ard: 4, fotos: { dlu: 'imagens/dlu/emb-malagueta-nativa-450.webp' }, fotosTam: { dlu: { '90 g': 'imagens/dlu/emb-malagueta-nativa-90.webp', '220 g': 'imagens/dlu/emb-malagueta-nativa-220.webp', '450 g': 'imagens/dlu/emb-malagueta-nativa-450.webp' } }, cat: 'Pimentas em conserva', cor: '#c4241b', uso: 'Malagueta em conserva, ardida e saborosa.', tamanhos: ['30 g', '90 g', '220 g', '450 g'], liquido: ['', '200 g', '480 g', '1050 g'], emb: true, marca: 'Nativa', so: 'dlu' },
